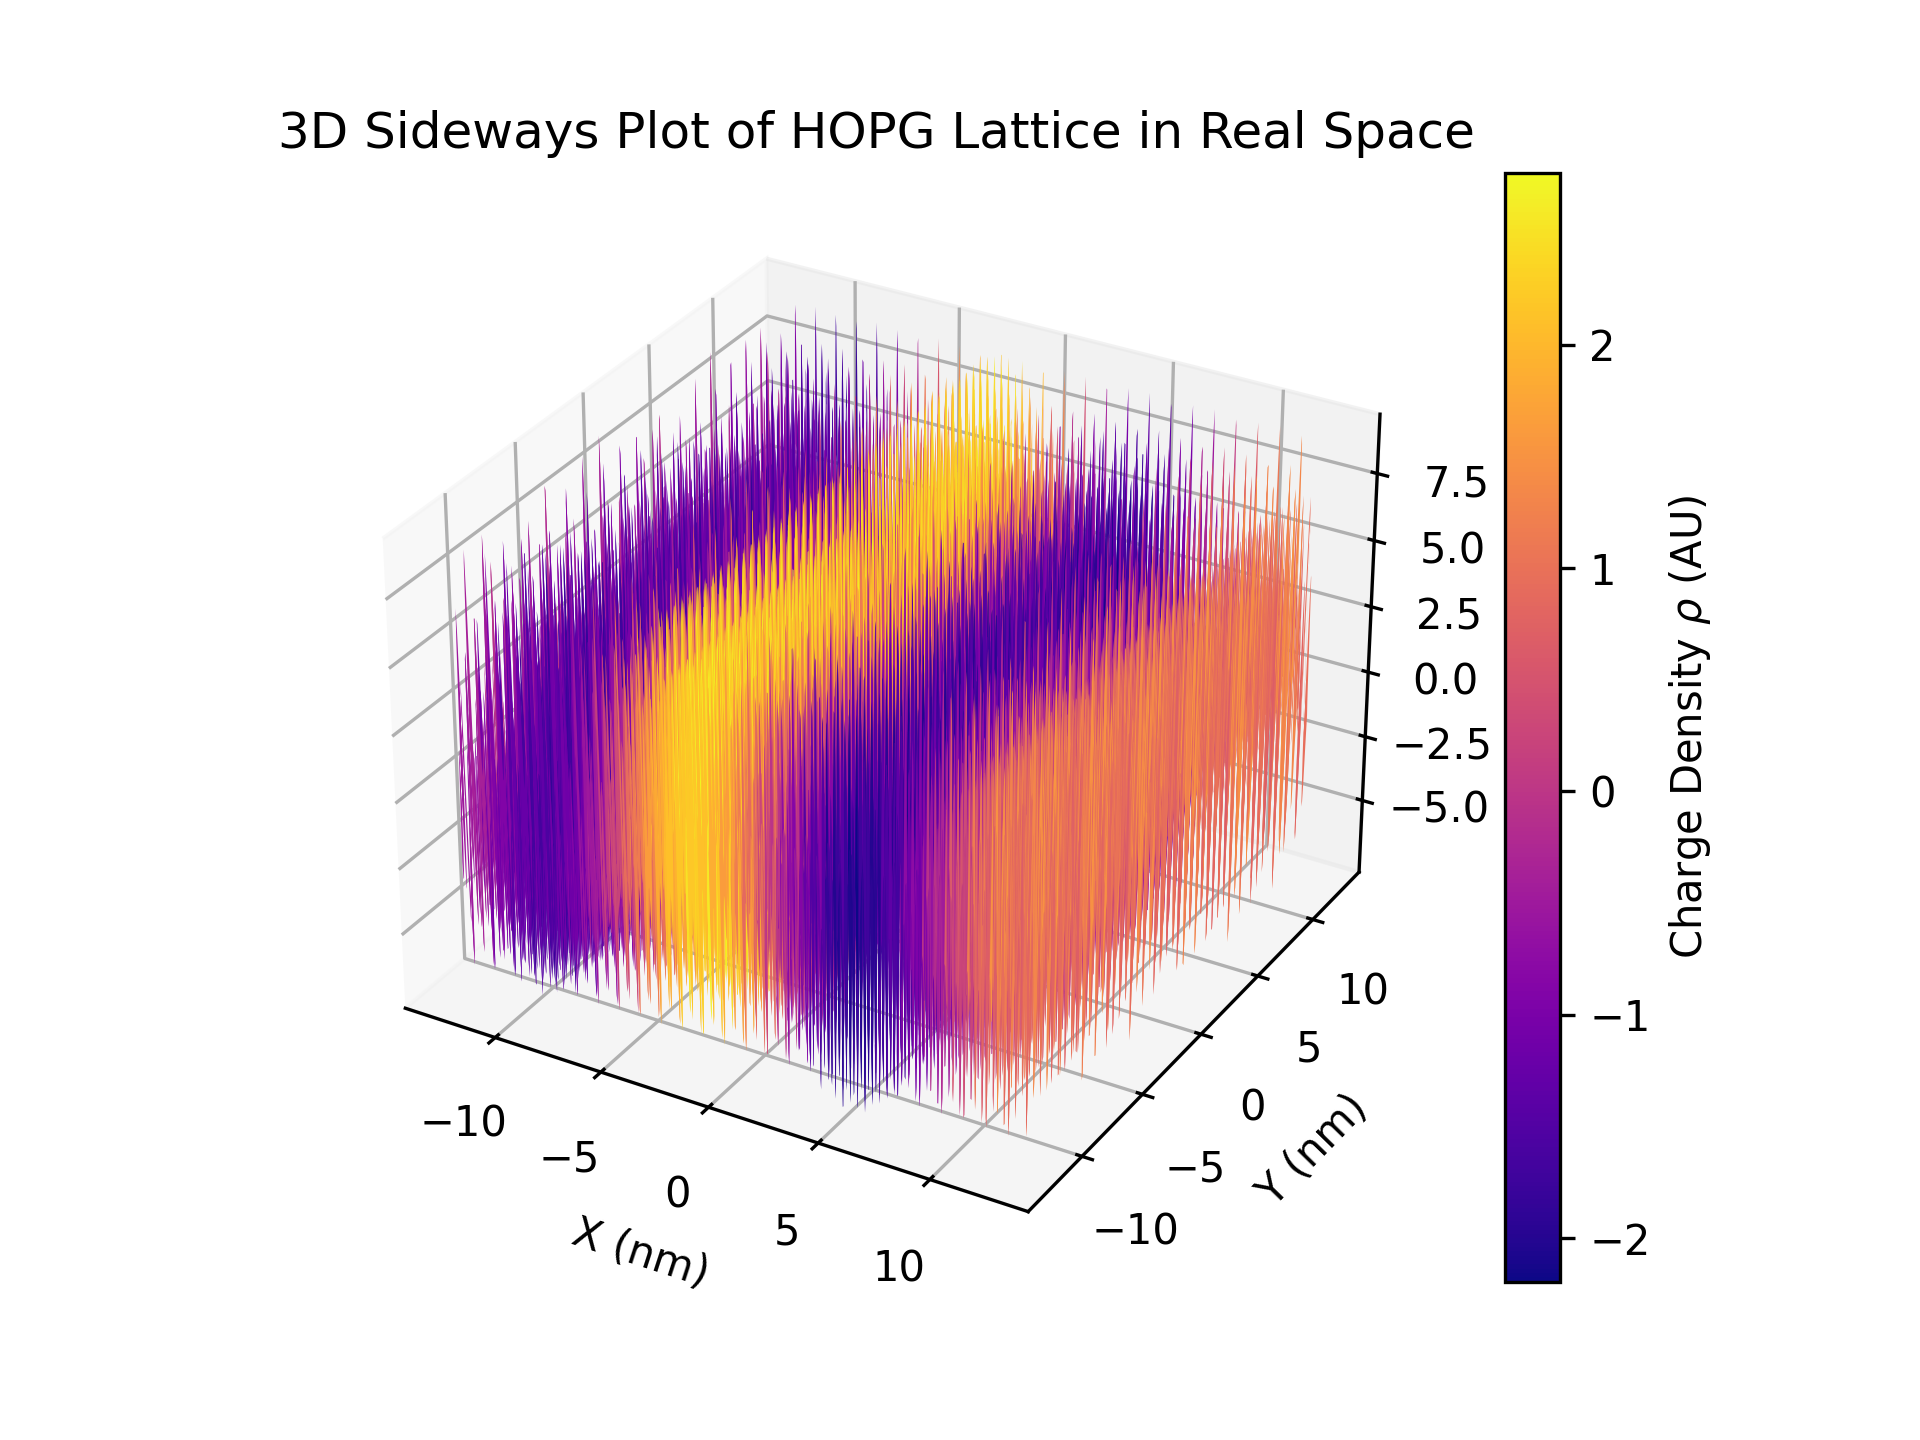
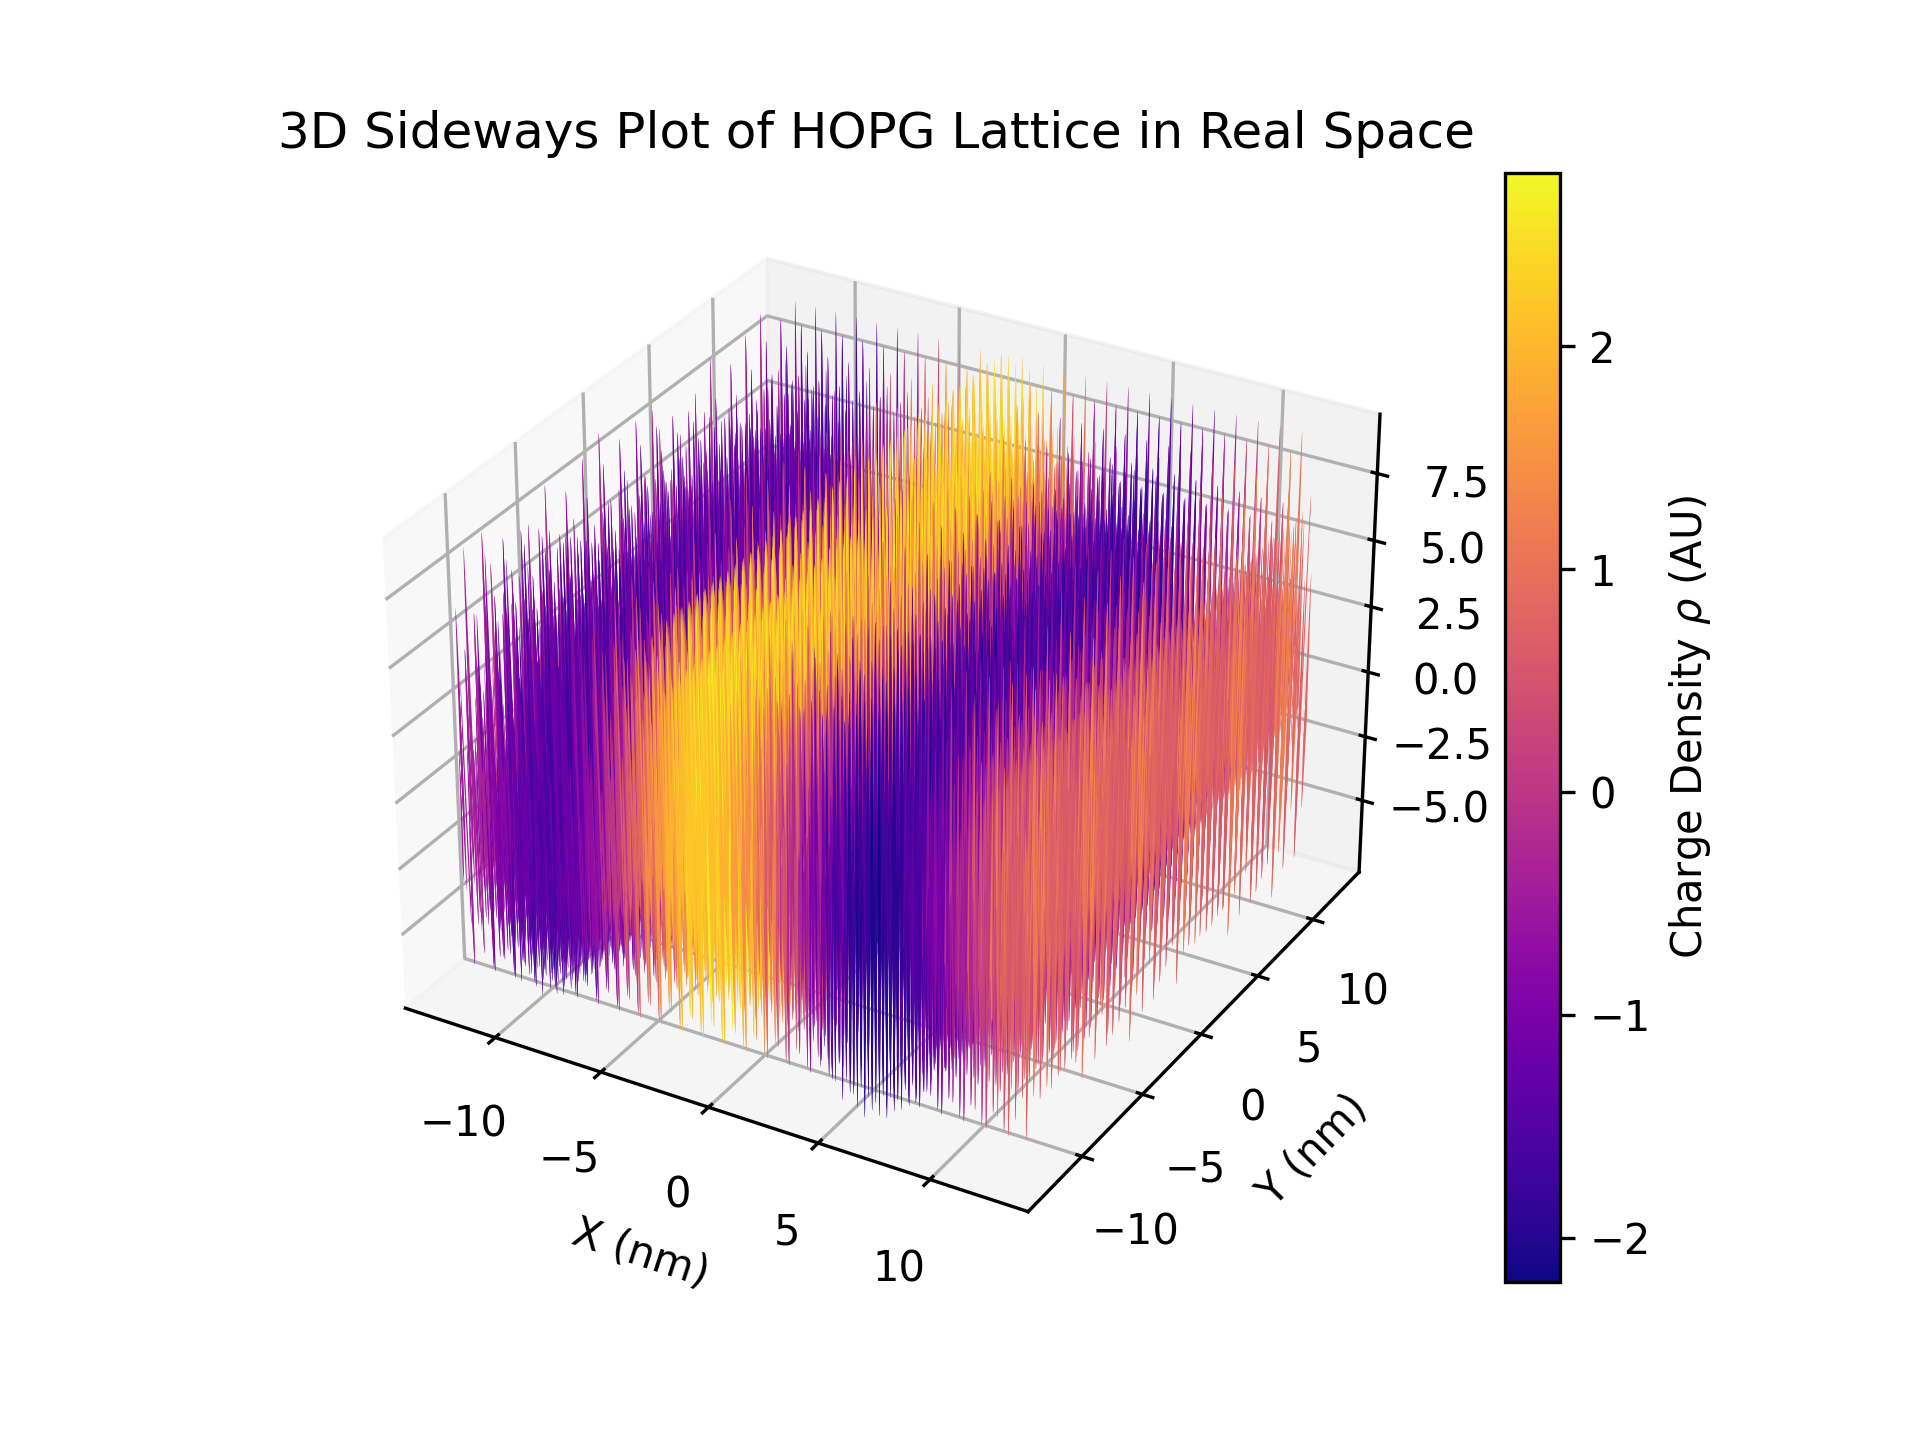
Added raw data for Si sample

Changed region(s): [[0.2812, 0.25, 0.6875, 0.7812], [0.8125, 0.2188, 0.8438, 0.25]]

diff --git a/FFTSim.py b/FFTSim.py
@@ -17,7 +17,7 @@ def generate_coefficients(num_coefficients,order=2):
         P_n.append(order*10**(-i))
     return P_n
 
-def simulate_hopg_lattice(n_harmonics, k, theta, real_space_size,order):
+def simulate_hopg_lattice(n_harmonics, k, theta, real_space_size,order,n):
     wave_vectors = generate_wave_vectors(k, theta, n_harmonics)
     P_n = generate_coefficients(n_harmonics,order)
 
@@ -32,8 +32,8 @@ def simulate_hopg_lattice(n_harmonics, k, theta, real_space_size,order):
         P = P_n[i]
         # A-site contribution
         lattice_real_space += P * (np.cos(kx1 * X + ky1 * Y) + np.cos(kx2 * X + ky2 * Y))
-        # B-site contribution with a phase shift (e.g., pi)
-        lattice_real_space += P * (np.cos(kx1 * X + ky1 * Y + np.pi/3) + np.cos(kx2 * X + ky2 * Y + np.pi/3))
+        # B-site contribution 
+        lattice_real_space += P/10 * (np.cos(kx1 * X + ky1 * Y + np.pi/3) + np.cos(kx2 * X + ky2 * Y + np.pi/3))
 
     sigma = 10  # standard deviation for Gaussian smoothing
     gaussian_envelope = np.exp(-(X**2 + Y**2) / (2 * sigma**2))
@@ -84,8 +84,8 @@ def simulate_hopg_lattice(n_harmonics, k, theta, real_space_size,order):
 # Constants for HOPG lattice
 a = 2*0.246  # lattice constant for graphene in nm
 k = 2 * np.pi / a  # wave vector
-n = 1000 # size of the simulation grid
-real_space_size = 25 # nm
+n_pts = 2000 # size of the simulation grid
+real_space_size = 5 # nm
 theta = np.pi / 3  
-n_harmonics = 10
-simulate_hopg_lattice(n_harmonics, k, theta, real_space_size,2)
+n_harmonics = 15  # number of harmonics to include in the lattice
+simulate_hopg_lattice(n_harmonics, k, theta, real_space_size,2,n_pts)
